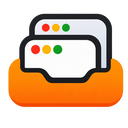
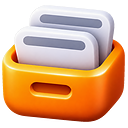
Put the glossy archive-box render on the landing page
The site's product icon is now the glossy 3D archive box the brand record was
moving toward, at 24 px in the header, 20 px in the footer, and as the favicon
and apple-touch-icon. The new master, `assets/icon-glossy.png`, arrives lit
against a near-black backdrop rather than cut out, so a plain downscale would put
a dark tile next to the wordmark.

`scripts/gen-icons.ts` keys that backdrop out instead: it flattens to black,
flood-fills from the eight frame edges at 14% fuzz, erodes the mask two pixels so
the surviving rim stays inside the subject rather than on the blend, feathers the
alpha by 1.5 px, and insets the result to 96% of the tile so a mark this dense
does not crowd the wordmark. The rim samples orange (247, 184, 37) rather than
black, and the corners come out fully transparent, which is what the old flat
master gave for free.

The extension family in `public/icon/` still comes from `assets/icon.png`, so the
toolbar and the site now carry sibling marks instead of one identical file. That
is deliberate for this change and easy to reverse: point `render()` at the glossy
master too. `docs/BRAND.md` documents both masters, how each is exported, and
what a replacement needs for the keying to hold.

diff --git a/scripts/gen-icons.ts b/scripts/gen-icons.ts
@@ -6,6 +6,76 @@ const source = join(process.cwd(), 'assets/icon.png');
 if (!existsSync(source)) throw new Error(`Missing ${source}`);
 
 /**
+ * The landing page uses a glossier render than the extension: a 3D archive box
+ * photographed on a near-black backdrop. Key that backdrop out so the inline
+ * header/footer marks and the favicon sit on the page instead of inside a dark
+ * tile, then inset it slightly so it balances the wordmark next to it.
+ */
+const glossySource = join(process.cwd(), 'assets/icon-glossy.png');
+if (!existsSync(glossySource)) throw new Error(`Missing ${glossySource}`);
+
+const renderGlossy = (size: number, file: string) => {
+  const [width, height] = execFileSync('magick', [glossySource, '-format', '%w %h', 'info:'])
+    .toString()
+    .trim()
+    .split(' ')
+    .map(Number) as [number, number];
+  const edges = [
+    [0, 0],
+    [width - 1, 0],
+    [0, height - 1],
+    [width - 1, height - 1],
+    [Math.floor(width / 2), 0],
+    [0, Math.floor(height / 2)],
+    [width - 1, Math.floor(height / 2)],
+    [Math.floor(width / 2), height - 1],
+  ];
+  const inset = Math.round(size * 0.96);
+  execFileSync('magick', [
+    glossySource,
+    '-background',
+    'black',
+    '-alpha',
+    'remove',
+    '-alpha',
+    'off',
+    '-fuzz',
+    '14%',
+    '-fill',
+    'none',
+    ...edges.flatMap(([x, y]) => ['-draw', `color ${x},${y} floodfill`]),
+    '-channel',
+    'A',
+    '-morphology',
+    'Erode',
+    'Disk:2',
+    '+channel',
+    '-channel',
+    'A',
+    '-blur',
+    '0x1.5',
+    '+channel',
+    '-trim',
+    '+repage',
+    '-filter',
+    'Lanczos',
+    '-resize',
+    `${inset}x${inset}`,
+    '-unsharp',
+    '0x0.75+0.6+0.02',
+    '-background',
+    'none',
+    '-gravity',
+    'center',
+    '-extent',
+    `${size}x${size}`,
+    '-strip',
+    file,
+  ]);
+  console.log(`${file.slice(process.cwd().length + 1)}`);
+};
+
+/**
  * Trim the master to its ink, then centre it in a square. The master has
  * transparent rounded corners and a few pixels of slack on each side, so a
  * plain resize would leave a mark that drifts off-centre and shrinks at 16 px.
@@ -37,5 +107,5 @@ for (const size of [16, 32, 48, 64, 128]) render(size, join(out, `${size}.png`))
 
 const landing = join(process.cwd(), 'landing/assets');
 mkdirSync(landing, { recursive: true });
-render(128, join(landing, 'icon.png'));
-render(32, join(landing, 'favicon.png'));
+renderGlossy(128, join(landing, 'icon.png'));
+renderGlossy(32, join(landing, 'favicon.png'));

diff --git a/docs/brand/icon-preview.html b/docs/brand/icon-preview.html
@@ -56,6 +56,17 @@
     </section>
 
     <section>
+      <h2>Landing copies</h2>
+      <p>Keyed from <code>assets/icon-glossy.png</code>. Shown at the sizes the page renders.</p>
+      <div class="row">
+        <figure><img src="../../landing/assets/icon.png" width="20" height="20" alt="" /><figcaption>20 footer</figcaption></figure>
+        <figure><img src="../../landing/assets/icon.png" width="24" height="24" alt="" /><figcaption>24 header</figcaption></figure>
+        <figure><img src="../../landing/assets/favicon.png" width="32" height="32" alt="" /><figcaption>32 favicon</figcaption></figure>
+        <figure><img src="../../landing/assets/icon.png" width="128" height="128" alt="" /><figcaption>128 touch</figcaption></figure>
+      </div>
+    </section>
+
+    <section>
       <h2>Toolbar, both themes</h2>
       <div class="toolbar light">
         <span>◀ ▶ ⟳</span><span class="url">chrome://extensions</span><span class="ext"><img src="../../public/icon/16.png" width="16" height="16" alt="" /></span><span>⋮</span>

diff --git a/docs/BRAND.md b/docs/BRAND.md
@@ -20,13 +20,14 @@ dark toolbar without one.
 | Asset | Size | Notes |
 | --- | --- | --- |
 | `assets/icon.png` | 1254×1254 | Raster master, sRGB with alpha, trimmed before export |
+| `assets/icon-glossy.png` | 1254×1254 | Landing master: glossy render on a near-black backdrop, keyed out at export |
 | `public/icon/16.png` | 16×16 | Toolbar; downscaled from the master |
 | `public/icon/32.png` | 32×32 | Toolbar / retina |
 | `public/icon/48.png` | 48×48 | Extensions page |
 | `public/icon/64.png` | 64×64 | Store submission (32/64/128 set) |
 | `public/icon/128.png` | 128×128 | Store listing, install dialog, in-app brand |
-| `landing/assets/icon.png` | 128×128 | Landing header and footer; written by `pnpm icons` |
-| `landing/assets/favicon.png` | 32×32 | Favicon and apple-touch-icon; written by `pnpm icons` |
+| `landing/assets/icon.png` | 128×128 | Landing header and footer; written from the glossy master |
+| `landing/assets/favicon.png` | 32×32 | Favicon and apple-touch-icon; written from the glossy master |
 | `landing/assets/og.svg` | 1200×630 | Open Graph source; embeds a 96 px copy |
 | `docs/brand/icon-preview.html` | browser | Size and toolbar preview |
 
@@ -37,9 +38,13 @@ pnpm icons
 pnpm build
 ```
 
-`pnpm icons` writes the whole family: five manifest sizes into `public/icon/` and the two landing
-copies. The library rail and popup use `public/icon/128.png` directly, so one command updates the
-toolbar, the in-app brand, and the site header together. The Open Graph raster is generated from its source:
+`pnpm icons` writes the whole family: five manifest sizes into `public/icon/` from `assets/icon.png`,
+and the two landing copies from `assets/icon-glossy.png`. The extension and the site therefore carry
+sibling marks rather than one identical file. The landing master is a 3D render lit against near
+black, so `scripts/gen-icons.ts` keys that backdrop out by flood-filling from the eight frame edges,
+erodes the mask a little so the selected rim stays inside the subject, feathers the alpha, and insets
+the result to 96% of the tile so it balances the wordmark. The library rail and popup use
+`public/icon/128.png` directly. The Open Graph raster is generated from its source:
 
 ```bash
 rsvg-convert -w 1200 -h 630 landing/assets/og.svg -o landing/assets/og.png
@@ -75,7 +80,9 @@ one, so the same file works on both without a plate.
 
 ## Changing the mark
 
-1. Replace `assets/icon.png` with a square master at 512 px or larger.
+1. Replace `assets/icon.png` (extension family) or `assets/icon-glossy.png` (landing copies) with a
+   square master at 512 px or larger. A new landing master must sit on a dark, uniform backdrop for
+   the edge flood-fill to key cleanly; adjust the `14%` fuzz in `scripts/gen-icons.ts` otherwise.
 2. Run `pnpm icons` and `pnpm build` — the manifest family and both landing copies update together.
 3. Open `docs/brand/icon-preview.html` and check the 16 px tile at 100% on both toolbars.
 4. Update `landing/assets/og.svg` if the mark changed, then regenerate `og.png`.
@@ -90,7 +97,8 @@ one, so the same file works on both without a plate.
 
 ## Files
 
-- `assets/icon.png` — raster master
+- `assets/icon.png` — raster master for the extension family
+- `assets/icon-glossy.png` — raster master for the landing copies
 - `docs/brand/icon-preview.html` — size and toolbar preview
 - `scripts/gen-icons.ts` — PNG export
 - `docs/LANDING.md` — landing page implementation, copy, and checks

diff --git a/docs/CHANGELOG.md b/docs/CHANGELOG.md
@@ -4,6 +4,13 @@
 
 ### Changed
 
+- Swapped the landing page's product icon to the glossy archive-box render (`assets/icon-glossy.png`),
+  used at 24 px in the header, 20 px in the footer, and as the favicon and apple-touch-icon. The
+  render arrives lit against a near-black backdrop, so `scripts/gen-icons.ts` keys the backdrop out by
+  flood-filling from the eight frame edges, erodes and feathers the mask, and insets the subject to
+  96% of the tile; the result is 22.9 KB at 128 px and 2.6 KB at 32 px. The extension icon family in
+  `public/icon/` is unchanged and still derives from `assets/icon.png`, so the site and the toolbar
+  now carry sibling marks rather than one identical file; `docs/BRAND.md` documents both masters.
 - Rebuilt the hero demo to the animation review's storyboard. It now runs 12s instead of 18s and
   tells the story forwards: forty crowded tabs while the camera pushes into the strip and a counter
   climbs 12 → 24 → 40, one click on the Stow icon, the tabs draining into it and the counter falling

diff --git a/docs/SEO.md b/docs/SEO.md
@@ -58,7 +58,7 @@ Severity is about expected impact on organic search, not code tidiness. Everythi
 
 ### Low — noted, not actioned
 
-- `assets/icon.png` is 15.8 KB for a 24 px render; the hero fallback image is eager at 41 KB.
+- `landing/assets/icon.png` is 22.9 KB for a 24 px render; the hero fallback image is eager at 41 KB.
   Both are below the threshold where a fix changes anything measurable; revisit only with field
   data.
 - `og:title` deliberately keeps the slogan while the `<title>` carries keywords. Social previews
